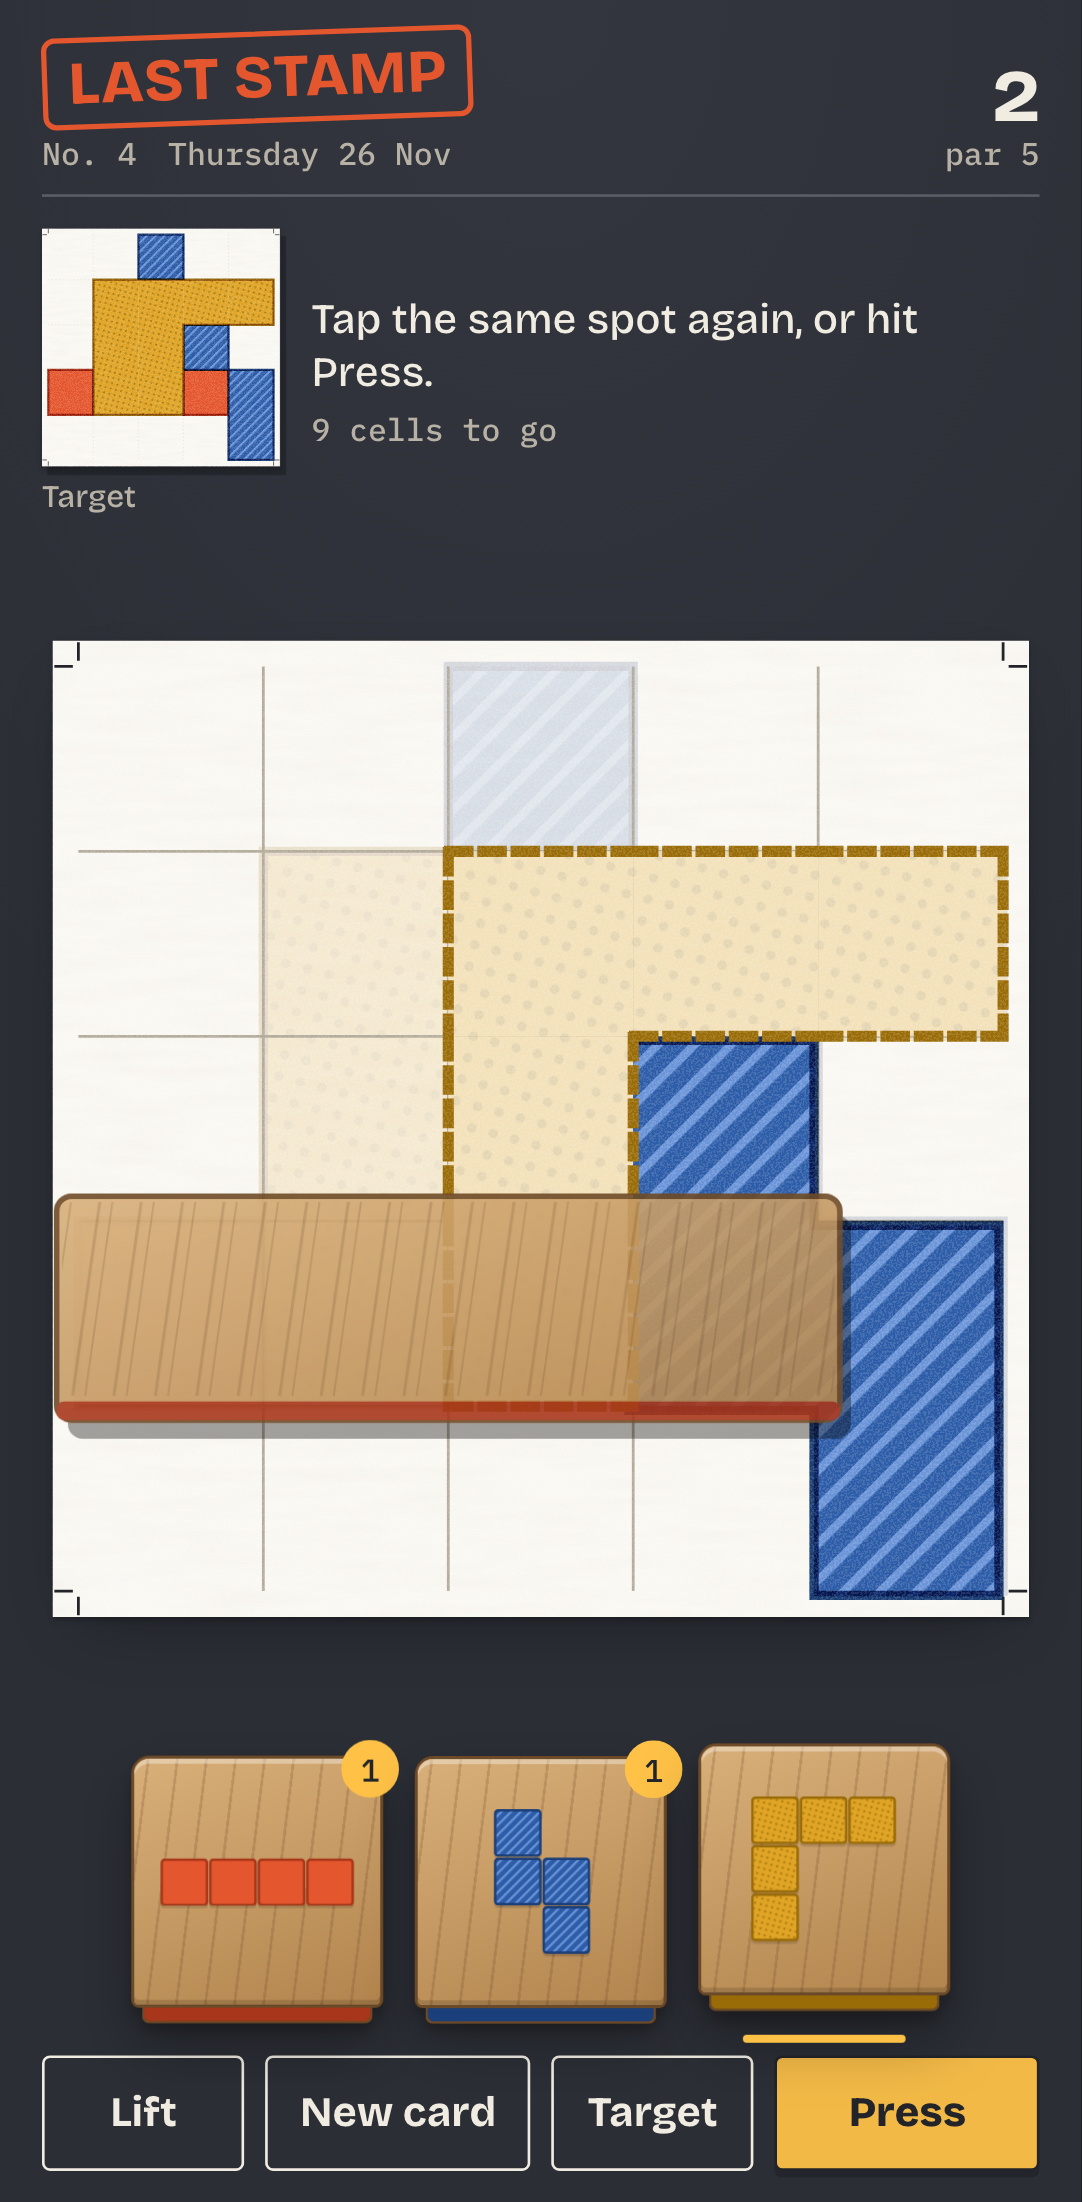
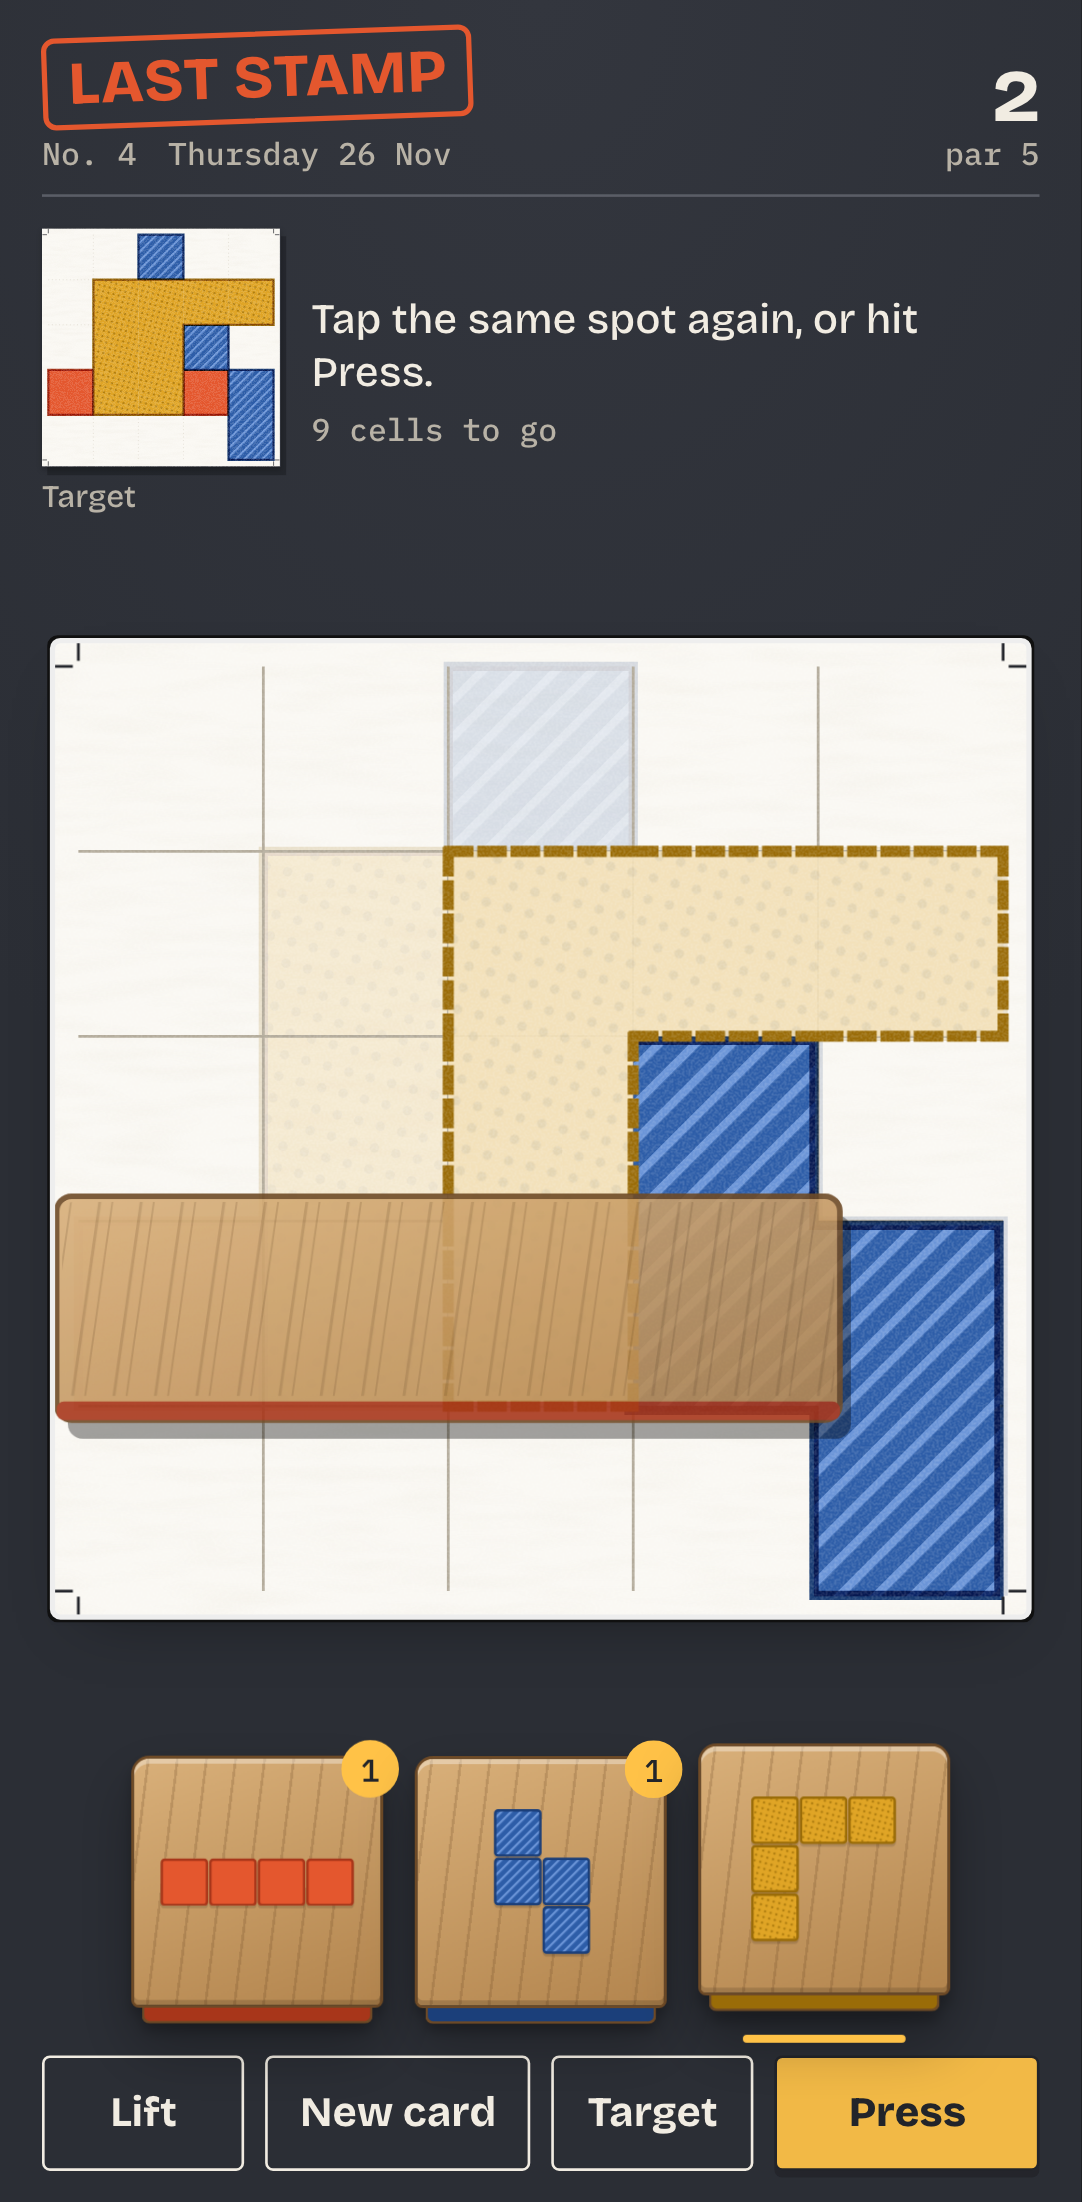
Accessibility: keyboard-only play (number keys pick a stamp, arrows move, Enter presses, Escape lifts) in the game and the Open desk; live announcements; row-by-row card descriptions; focus ring on the card; tests for keyboard solve, labels and reduced motion

Changed region(s): [[0.0305, 0.2779, 0.0915, 0.7411], [0.915, 0.2779, 0.976, 0.7411]]

diff --git a/src/client/game.tsx b/src/client/game.tsx
@@ -1,6 +1,6 @@
 import './styles.css';
 
-import { StrictMode, useCallback, useEffect, useMemo, useRef, useState, type MouseEvent } from 'react';
+import { StrictMode, useCallback, useEffect, useMemo, useRef, useState, type KeyboardEvent, type MouseEvent } from 'react';
 import { canRunAsUser, requestExpandedMode, showToast } from '@devvit/web/client';
 import { createRoot } from 'react-dom/client';
 import { puzzleFor, utcDateKey, isDateKey } from '../shared/daily';
@@ -9,6 +9,8 @@ import type { DayStats, MyResult, PlayerStats, StateResponse } from '../shared/a
 import { nextTitle, titleFor } from '../shared/titles';
 import { clearDraft, fetchState, loadDraft, saveDraft, sendComplete, shareResult, wearFlair } from './api';
 import { journey } from './journey';
+import { cellName, describeCard, keyAction } from './a11y';
+import { INK_NAME } from './ink';
 import { Sheet, placeAt } from './Sheet';
 import { StampButton, shapeDims } from './StampButton';
 import { InkChip } from './ink';
@@ -180,6 +182,7 @@ export function App() {
   const [flairState, setFlairState] = useState<Busy>('idle');
   const [firstVisit] = useState(() => !seenBefore());
   const [fresh, setFresh] = useState<number | null>(null);
+  const [announce, setAnnounce] = useState('');
 
   const onFlair = () => {
     setFlairState('busy');
@@ -257,6 +260,7 @@ export function App() {
     }));
     setFresh(next.length - 1);
     setGhost(null);
+    setAnnounce(`Pressed ${INK_NAME[stamp.ink]} at ${cellName(ghost.row, ghost.col)}. ${left === 0 ? 'The card matches.' : `${left} ${left === 1 ? 'cell' : 'cells'} to go.`}`);
     try {
       navigator.vibrate?.(12);
     } catch {
@@ -303,6 +307,37 @@ export function App() {
     }
     setGhost(pos);
   };
+
+  // Keyboard play on the card: arrows move the outline, Enter or Space presses, Escape lifts it.
+  const onKey = (e: KeyboardEvent<SVGSVGElement>) => {
+    if (finished) return;
+    const a = keyAction(e.key, stamp, ghost);
+    if (a.kind === 'none') {
+      if (!stamp && (e.key === 'Enter' || e.key === ' ')) setAnnounce('Pick a stamp first: press a number from 1 to ' + puzzle.stamps.length + ', or use Tab.');
+      return;
+    }
+    e.preventDefault();
+    if (a.kind === 'clear') return setGhost(null);
+    if (a.kind === 'press') return doPress();
+    setGhost(a.pos);
+    if (stamp) setAnnounce(`${INK_NAME[stamp.ink]} stamp at ${cellName(a.pos.row, a.pos.col)}. Enter to press.`);
+  };
+
+  // Number keys pick a stamp from anywhere in the game.
+  useEffect(() => {
+    const pick = (e: globalThis.KeyboardEvent) => {
+      if (finished || e.altKey || e.ctrlKey || e.metaKey) return;
+      const n = Number(e.key);
+      if (Number.isInteger(n) && n >= 1 && n <= puzzle.stamps.length) {
+        const s = puzzle.stamps[n - 1]!;
+        setSelected(s.id);
+        setGhost(null);
+        setAnnounce(`${INK_NAME[s.ink]} stamp picked. Move to the card and use the arrow keys.`);
+      }
+    };
+    window.addEventListener('keydown', pick);
+    return () => window.removeEventListener('keydown', pick);
+  }, [finished, puzzle.stamps]);
 
   const undo = () => {
     if (finished || draft.presses.length === 0) return;
@@ -367,10 +402,13 @@ export function App() {
         </div>
       </section>
 
+      <p className="sr-only" aria-live="assertive">
+        {announce}
+      </p>
       <section className="press-bed">
         <Sheet
           id="work"
-          label={finished ? 'Your finished card' : 'Your card'}
+          label={finished ? 'Your finished card' : `Your card, ${left} ${left === 1 ? 'cell' : 'cells'} to go. Arrow keys move the stamp, Enter presses.`}
           stamps={puzzle.stamps}
           presses={presses}
           fresh={fresh}
@@ -378,6 +416,8 @@ export function App() {
           overlay={comparing ? puzzle.target : null}
           aim={finished ? null : puzzle.target}
           onPointerCell={finished ? undefined : onCell}
+          onKey={finished ? undefined : onKey}
+          description={`Target: ${describeCard(puzzle.target)} Your card: ${describeCard(sheet)}`}
           className={`work-sheet ${solvedNow || finished ? 'is-done' : ''} ${stamp && !ghost && !finished && draft.presses.length === 0 ? 'coach' : ''}`}
         />
       </section>

diff --git a/tests/play.spec.ts b/tests/play.spec.ts
@@ -130,3 +130,64 @@ test('open desk: compose a card and see its par live', async ({ page }, info) =>
   expect(overflow).toBeLessThanOrEqual(0);
   await page.screenshot({ path: `${SHOTS}/desk-make-${info.project.name}.png` });
 });
+
+test('keyboard only: solve today at par without a pointer', async ({ page }) => {
+  const puzzle = puzzleFor(utcDateKey());
+  const { startPos } = await import('../src/client/a11y');
+  await page.goto('/game.html');
+  // tab until the card has focus
+  for (let i = 0; i < 20; i++) {
+    await page.keyboard.press('Tab');
+    if (await page.evaluate(() => document.activeElement?.classList.contains('work-sheet'))) break;
+  }
+  await expect(page.locator('svg.work-sheet')).toBeFocused();
+  await expect(page.getByRole('application', { name: /Your card/ })).toBeVisible();
+  for (const press of puzzle.solution) {
+    const idx = puzzle.stamps.findIndex((s) => s.id === press.stamp);
+    await page.keyboard.press(String(idx + 1));
+    await page.keyboard.press('Enter'); // outline appears in the middle
+    const start = startPos(puzzle.stamps[idx]!);
+    const dr = press.row - start.row;
+    const dc = press.col - start.col;
+    for (let k = 0; k < Math.abs(dr); k++) await page.keyboard.press(dr > 0 ? 'ArrowDown' : 'ArrowUp');
+    for (let k = 0; k < Math.abs(dc); k++) await page.keyboard.press(dc > 0 ? 'ArrowRight' : 'ArrowLeft');
+    await page.keyboard.press('Enter');
+  }
+  await expect(page.locator('.result')).toBeVisible();
+  await expect(page.locator('.result-par')).toHaveText('on par');
+});
+
+test('screen-reader names: every stamp and the card are labelled', async ({ page }) => {
+  const puzzle = puzzleFor(utcDateKey());
+  await page.goto('/game.html');
+  await expect(page.getByRole('button', { name: /stamp, (solid|stripes|dots|crosshatch), \d+ cells/ })).toHaveCount(puzzle.stamps.length);
+  await expect(page.getByRole('img', { name: 'Target card' })).toBeVisible();
+  const desc = await page.locator('svg.work-sheet desc').textContent();
+  expect(desc).toMatch(/^Target: Row 1:/);
+  await expect(page.locator('[aria-live="assertive"]')).toHaveCount(1);
+});
+
+test('reduced motion: no stamp-block animation, ink shows at once', async ({ page }) => {
+  await page.emulateMedia({ reducedMotion: 'reduce' });
+  const puzzle = puzzleFor(utcDateKey());
+  await page.goto('/game.html');
+  const press = puzzle.solution[0]!;
+  const idx = puzzle.stamps.findIndex((s) => s.id === press.stamp);
+  await page.locator('.tray .stamp').nth(idx).click();
+  let tap: [number, number] = [0, 0];
+  for (let r = 0; r < SIZE; r++)
+    for (let c = 0; c < SIZE; c++) {
+      const q = placeAt(puzzle.stamps[idx]!, r, c);
+      if (q.row === press.row && q.col === press.col) tap = [r, c];
+    }
+  await tapCell(page, tap[0], tap[1]);
+  await page.getByRole('button', { name: 'Press', exact: true }).click();
+  const state = await page.evaluate(() => ({
+    block: getComputedStyle(document.querySelector('.press-block')!).display,
+    ink: getComputedStyle(document.querySelector('.fresh-press')!).opacity,
+    anim: getComputedStyle(document.querySelector('.fresh-press')!).animationName,
+  }));
+  expect(state.block).toBe('none');
+  expect(state.ink).toBe('1');
+  expect(state.anim).toBe('none');
+});

diff --git a/src/client/desk.tsx b/src/client/desk.tsx
@@ -1,11 +1,13 @@
 import './styles.css';
 
-import { StrictMode, useEffect, useMemo, useRef, useState } from 'react';
+import { StrictMode, useEffect, useMemo, useRef, useState, type KeyboardEvent } from 'react';
 import { createRoot } from 'react-dom/client';
 import { showToast } from '@devvit/web/client';
 import { checkComposition, deskStamps, deskSunday, DESK_RULES } from '../shared/desk';
 import { utcDateKey } from '../shared/daily';
-import { sheetFromString, type Press, type Stamp } from '../shared/engine';
+import { sheetFromString, simulate, type Press, type Stamp } from '../shared/engine';
+import { cellName, describeCard, keyAction } from './a11y';
+import { INK_NAME } from './ink';
 import type { DeskEntry, DeskResponse } from '../shared/api';
 import { Sheet, placeAt } from './Sheet';
 import { StampButton, shapeDims } from './StampButton';
@@ -62,6 +64,7 @@ export function Desk() {
   const [ghost, setGhost] = useState<{ row: number; col: number } | null>(null);
   const [fresh, setFresh] = useState<number | null>(null);
   const [busy, setBusy] = useState(false);
+  const [announce, setAnnounce] = useState('');
   const ghostBeforeDown = useRef<{ row: number; col: number } | null>(null);
 
   const load = () =>
@@ -83,6 +86,7 @@ export function Desk() {
     if (!stamp || !ghost) return;
     setPresses((p) => [...p, { stamp: stamp.id, row: ghost.row, col: ghost.col }]);
     setFresh(presses.length);
+    setAnnounce(`Pressed ${INK_NAME[stamp.ink]} at ${cellName(ghost.row, ghost.col)}.`);
     setGhost(null);
   };
 
@@ -99,6 +103,16 @@ export function Desk() {
       }
     }
     setGhost(pos);
+  };
+
+  const onKey = (e: KeyboardEvent<SVGSVGElement>) => {
+    const a = keyAction(e.key, stamp, ghost);
+    if (a.kind === 'none') return;
+    e.preventDefault();
+    if (a.kind === 'clear') return setGhost(null);
+    if (a.kind === 'press') return press();
+    setGhost(a.pos);
+    if (stamp) setAnnounce(`${INK_NAME[stamp.ink]} stamp at ${cellName(a.pos.row, a.pos.col)}. Enter to press.`);
   };
 
   const submit = async () => {
@@ -170,15 +184,20 @@ export function Desk() {
                 {info}
               </p>
             </section>
+            <p className="sr-only" aria-live="assertive">
+              {announce}
+            </p>
             <section className="press-bed">
               <Sheet
                 id="compose"
-                label="Your card"
+                label="Your card. Arrow keys move the stamp, Enter presses."
                 stamps={stamps}
                 presses={presses}
                 fresh={fresh}
                 ghost={stamp && ghost ? { stamp, ...ghost } : null}
                 onPointerCell={onCell}
+                onKey={onKey}
+                description={describeCard(simulate(stamps, presses))}
                 className="work-sheet"
               />
             </section>

diff --git a/src/client/a11y.ts b/src/client/a11y.ts
@@ -1,0 +1,49 @@
+// Keyboard play and screen-reader text, shared by the game and the Open desk.
+import { SIZE, fits, shapeOf, type Cell, type Stamp } from '../shared/engine';
+import { INK_NAME } from './ink';
+
+export type Pos = { row: number; col: number };
+
+/** Where a stamp lands when the card gets keyboard focus: roughly the middle, kept on the card. */
+export function startPos(stamp: Stamp): Pos {
+  const shape = shapeOf(stamp.shape);
+  let rows = 0;
+  let cols = 0;
+  for (const [r, c] of shape) {
+    rows = Math.max(rows, r + 1);
+    cols = Math.max(cols, c + 1);
+  }
+  return { row: Math.floor((SIZE - rows) / 2), col: Math.floor((SIZE - cols) / 2) };
+}
+
+export type KeyAction = { kind: 'move'; pos: Pos } | { kind: 'press' } | { kind: 'clear' } | { kind: 'none' };
+
+/** Arrow keys move the outline one cell (it never leaves the card); Enter or Space presses; Escape lifts the outline. */
+export function keyAction(key: string, stamp: Stamp | undefined, ghost: Pos | null): KeyAction {
+  if (!stamp) return { kind: 'none' };
+  if (key === 'Escape') return { kind: 'clear' };
+  if (key === 'Enter' || key === ' ') return ghost ? { kind: 'press' } : { kind: 'move', pos: startPos(stamp) };
+  const d: Record<string, [number, number]> = { ArrowUp: [-1, 0], ArrowDown: [1, 0], ArrowLeft: [0, -1], ArrowRight: [0, 1] };
+  const step = d[key];
+  if (!step) return { kind: 'none' };
+  const from = ghost ?? startPos(stamp);
+  const next = { row: from.row + (ghost ? step[0] : 0), col: from.col + (ghost ? step[1] : 0) };
+  return fits(shapeOf(stamp.shape), next.row, next.col) ? { kind: 'move', pos: next } : { kind: 'move', pos: from };
+}
+
+const COLS = 'ABCDE';
+
+/** "row 2, column C" (the card reads like a small chart). */
+export function cellName(row: number, col: number): string {
+  return `row ${row + 1}, column ${COLS[col]}`;
+}
+
+/** A row-by-row reading of a card, for screen readers. */
+export function describeCard(cells: readonly Cell[]): string {
+  const rows: string[] = [];
+  for (let r = 0; r < SIZE; r++) {
+    const parts = cells.slice(r * SIZE, r * SIZE + SIZE).map((c) => (c === '.' ? 'blank' : INK_NAME[c]));
+    rows.push(`Row ${r + 1}: ${parts.join(', ')}.`);
+  }
+  return rows.join(' ');
+}

diff --git a/src/client/Sheet.tsx b/src/client/Sheet.tsx
@@ -1,4 +1,4 @@
-import { useRef, type PointerEvent as ReactPointerEvent } from 'react';
+import { useRef, type KeyboardEvent, type PointerEvent as ReactPointerEvent } from 'react';
 import { SIZE, footprint, shapeOf, type Cell, type Ink, type Press, type Stamp } from '../shared/engine';
 import { INK_VAR, InkDefs, inkFill } from './ink';
 
@@ -95,6 +95,10 @@ type Props = {
   grid?: boolean | undefined;
   /** A faint ghost of the target under the presses, so a fresh sheet shows where to aim. */
   aim?: readonly Cell[] | null | undefined;
+  /** Keyboard play: makes the card focusable and receives its key presses. */
+  onKey?: ((e: KeyboardEvent<SVGSVGElement>) => void) | undefined;
+  /** Longer text for screen readers (a row-by-row reading of the card). */
+  description?: string | undefined;
 };
 
 function flatRegions(svgId: string, cells: readonly Cell[]) {
@@ -104,7 +108,7 @@ function flatRegions(svgId: string, cells: readonly Cell[]) {
   });
 }
 
-export function Sheet({ id, label, stamps, flat, presses, fresh, ghost, overlay, onPointerCell, className, grid, aim }: Props) {
+export function Sheet({ id, label, stamps, flat, presses, fresh, ghost, overlay, onPointerCell, className, grid, aim, onKey, description }: Props) {
   const ref = useRef<SVGSVGElement>(null);
   const dragging = useRef(false);
 
@@ -167,11 +171,16 @@ export function Sheet({ id, label, stamps, flat, presses, fresh, ghost, overlay,
       ref={ref}
       className={className}
       viewBox={`${-M} ${-M} ${VB + 2 * M} ${VB + 2 * M}`}
-      role="img"
+      role={onKey ? 'application' : 'img'}
+      aria-roledescription={onKey ? 'stamping card' : undefined}
       aria-label={label}
+      aria-describedby={description ? `${id}-desc` : undefined}
+      tabIndex={onKey ? 0 : undefined}
+      onKeyDown={onKey}
       style={{ touchAction: 'none' }}
       {...handlers}
     >
+      {description && <desc id={`${id}-desc`}>{description}</desc>}
       <InkDefs id={id} />
       <linearGradient id={`${id}-wood`} x1="0" y1="0" x2="1" y2="1">
         <stop offset="0" style={{ stopColor: 'var(--wood-hi)' }} />

diff --git a/src/client/a11y.test.ts b/src/client/a11y.test.ts
@@ -1,0 +1,32 @@
+import { describe, expect, it } from 'vitest';
+import { cellName, describeCard, keyAction, startPos } from './a11y';
+import type { Cell, Stamp } from '../shared/engine';
+
+const bar: Stamp = { id: 's0', ink: 'R', shape: 'barH' }; // 1x3
+
+describe('keyboard play', () => {
+  it('does nothing without a stamp', () => {
+    expect(keyAction('Enter', undefined, null).kind).toBe('none');
+  });
+  it('Enter first shows the outline in the middle, then presses', () => {
+    expect(keyAction('Enter', bar, null)).toEqual({ kind: 'move', pos: startPos(bar) });
+    expect(keyAction('Enter', bar, { row: 2, col: 1 })).toEqual({ kind: 'press' });
+    expect(keyAction(' ', bar, { row: 2, col: 1 })).toEqual({ kind: 'press' });
+  });
+  it('arrows move one cell and never leave the card', () => {
+    expect(keyAction('ArrowDown', bar, { row: 2, col: 1 })).toEqual({ kind: 'move', pos: { row: 3, col: 1 } });
+    expect(keyAction('ArrowRight', bar, { row: 0, col: 2 })).toEqual({ kind: 'move', pos: { row: 0, col: 2 } });
+    expect(keyAction('ArrowUp', bar, { row: 0, col: 0 })).toEqual({ kind: 'move', pos: { row: 0, col: 0 } });
+  });
+  it('Escape lifts the outline', () => {
+    expect(keyAction('Escape', bar, { row: 1, col: 1 }).kind).toBe('clear');
+  });
+});
+
+describe('screen-reader text', () => {
+  it('names cells and reads a card row by row', () => {
+    expect(cellName(1, 2)).toBe('row 2, column C');
+    const card = 'RR...'.concat('.'.repeat(20)).split('') as Cell[];
+    expect(describeCard(card)).toMatch(/^Row 1: red, red, blank, blank, blank\. Row 2: blank/);
+  });
+});

diff --git a/src/client/styles.css b/src/client/styles.css
@@ -164,6 +164,20 @@ button {
     background-color var(--dur-short) var(--ease-out);
 }
 
+.sr-only {
+  position: absolute;
+  width: 1px;
+  height: 1px;
+  overflow: hidden;
+  clip-path: inset(50%);
+  white-space: nowrap;
+}
+
+.work-sheet:focus-visible {
+  outline: 3px solid var(--focus);
+  outline-offset: 3px;
+}
+
 .btn:focus-visible,
 .stamp:focus-visible {
   outline: 3px solid var(--focus);
